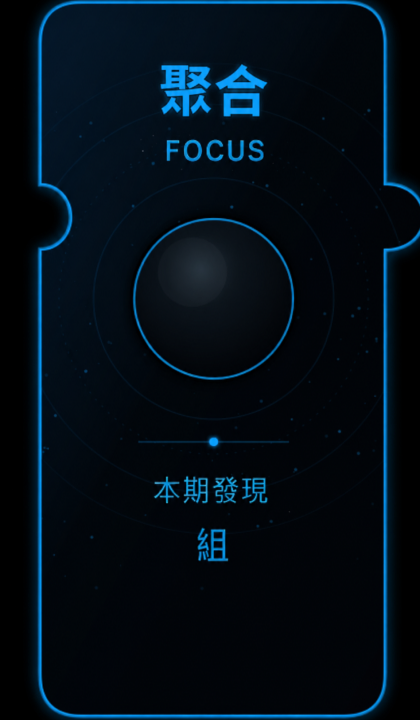
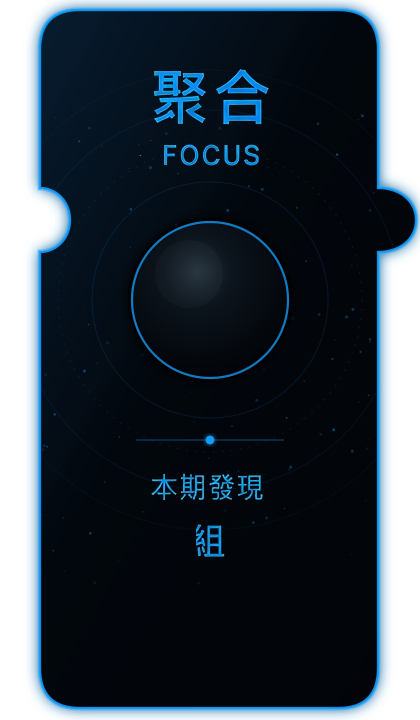
統一頁首間距並套用首頁 Matrix 狀態圖

diff --git a/src/feature-pages.css b/src/feature-pages.css
@@ -2552,6 +2552,17 @@ main.feature-screen.compact-feature-screen {
   padding-top: 0 !important;
 }
 
+/* Match the home Logo-to-content spacing on every page. */
+.compact-feature-screen > .feature-main-page-brand-header,
+.notifications-screen > .feature-main-page-brand-header,
+.profile-screen > .feature-main-page-brand-header {
+  margin-bottom: 8px;
+}
+
+.feature-screen:not(.compact-feature-screen) > .feature-brand-header {
+  margin-bottom: 8px;
+}
+
 /* Matrix 指南：390px 手機版面與閱讀層級。 */
 .matrix-guide-screen {
   padding-bottom: calc(98px + 16px + var(--mobile-safe-area-height));
